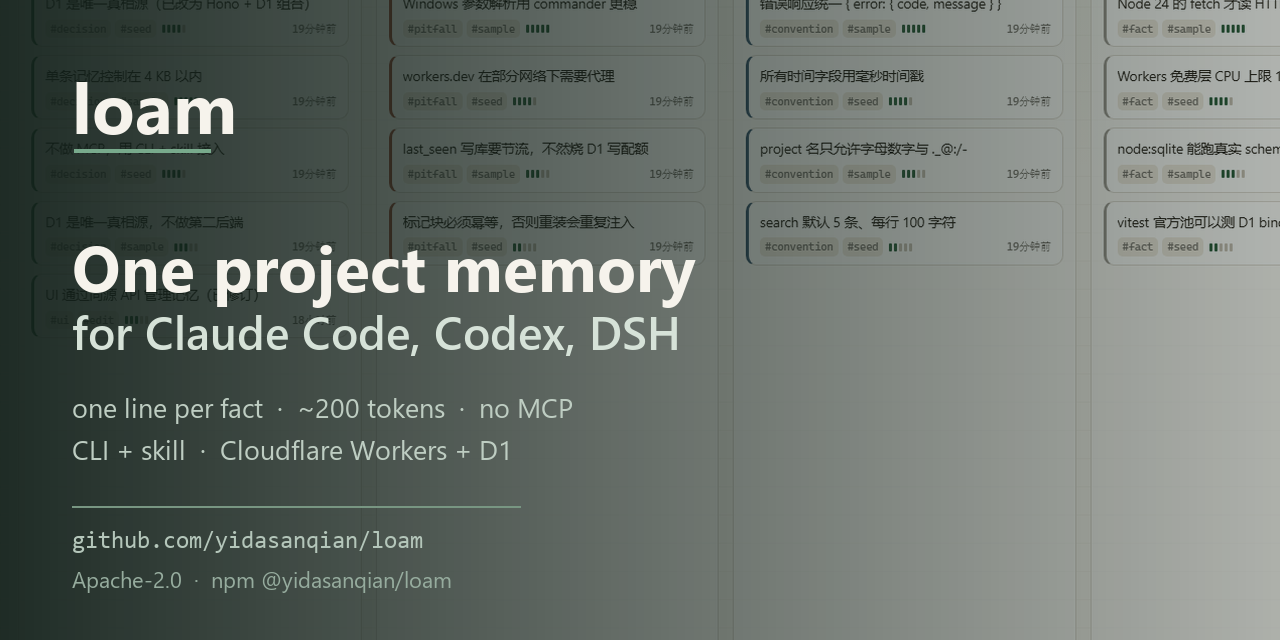
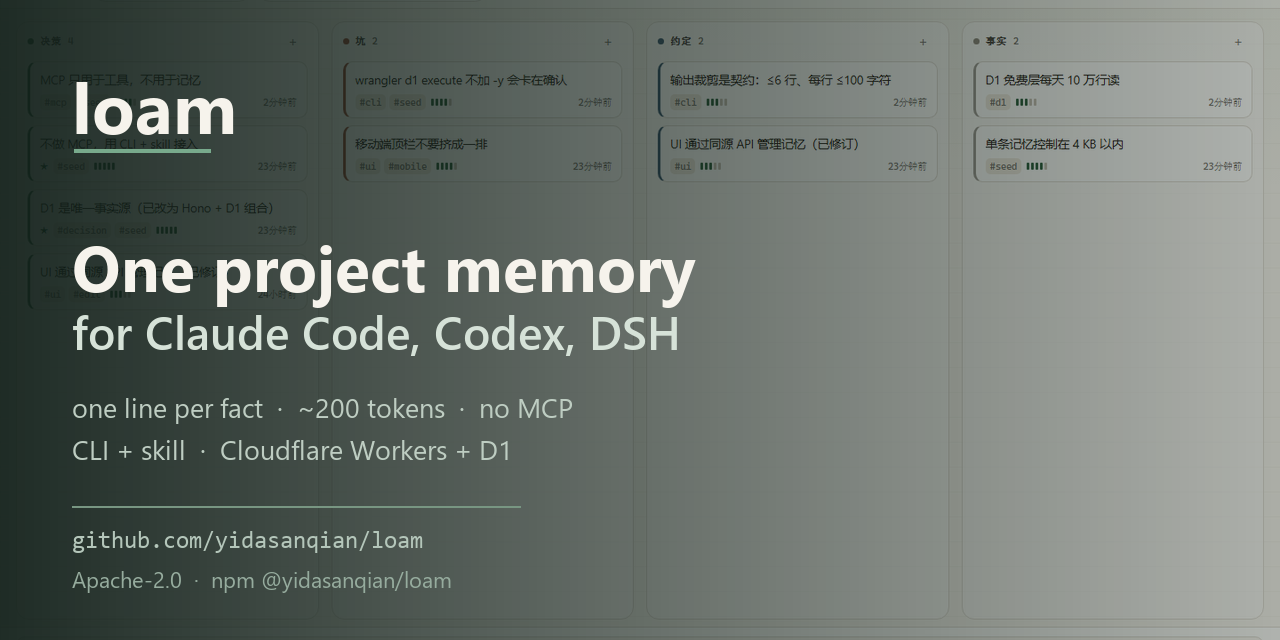
docs: re-shoot workbench screenshots without the browser overlay
Board, model and mobile captures now come from a clean headless session; the model shot is tall enough to show the full diagram and legend. Social preview follows the new board.

diff --git a/README.en.md b/README.en.md
@@ -80,7 +80,7 @@ Open your worker URL and paste the token from `~/.loamrc.json`:
 
 ![loam workbench: four lanes, cards and the capture dock](docs/images/loam-board.png)
 
-**Memory model diagram · 1440×900**
+**Memory model diagram · 1440×1260**
 
 ![loam memory model diagram: write, shape, recall, upkeep](docs/images/loam-model.png)
 

diff --git a/README.md b/README.md
@@ -80,7 +80,7 @@ $ loam search "auth token"
 
 ![loam 工作台：四泳道、卡片与底部捕获条](docs/images/loam-board.png)
 
-**记忆模型原理图 · 1440×900**
+**记忆模型原理图 · 1440×1260**
 
 ![loam 记忆模型原理图：写入、形状、读取、维护](docs/images/loam-model.png)
 
